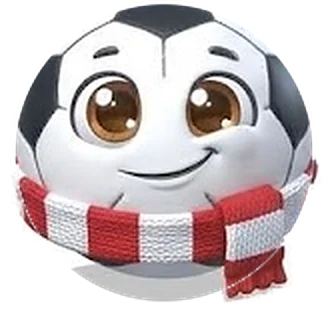
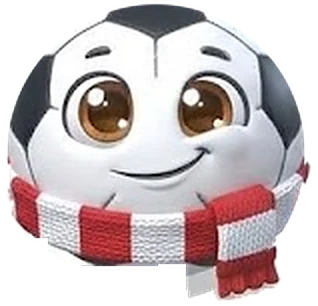
Goli scarf sprite: remove Gemini's ground shadow under the scarf, raise the shadow to match
Claude-Session: https://claude.ai/code/session_01Mxiv5njLw4hiVfBEJRmmtz

diff --git a/frontend/src/components/GoliSprite.js b/frontend/src/components/GoliSprite.js
@@ -21,7 +21,8 @@ import scarfImg from '../assets/goli/scarf.webp';
 // מי שביקש פחות תנועה (still) מקבל אותו בלי קפיצות.
 
 // מיקום הכדור בכל תמונה (מרכז ורדיוס, בפיקסלים) - כדי שהכדור יישב בדיוק
-// באותו מקום בכל הבעה ולא "יקפוץ" במעבר
+// באותו מקום בכל הבעה ולא "יקפוץ" במעבר. ground = איפה הכדור נגמר למטה
+// (ביחס לרדיוס): עם הצעיף הוא "מתיישב" ונגמר מעט מעל, אז הצל עולה איתו
 const SPRITES = {
   idle: { src: idleImg, w: 290, h: 290, cx: 144, cy: 144, r: 146 },
   talk: { src: talkImg, w: 292, h: 290, cx: 145, cy: 144, r: 147 },
@@ -30,7 +31,7 @@ const SPRITES = {
   celebrate: { src: celebrateImg, w: 286, h: 286, cx: 142, cy: 142, r: 144 },
   wow: { src: wowImg, w: 288, h: 286, cx: 143, cy: 142, r: 145 },
   crown: { src: crownImg, w: 302, h: 354, cx: 148, cy: 204, r: 150 },
-  scarf: { src: scarfImg, w: 330, h: 310, cx: 163, cy: 152, r: 155 }
+  scarf: { src: scarfImg, w: 318, h: 306, cx: 155, cy: 152, r: 155, ground: 0.74 }
 };
 
 const TALK_MS = 1600;
@@ -148,7 +149,7 @@ export default function GoliSprite({ mood = 'idle', stepKey, lookX = 0, lookY = 
       <style>{CSS}</style>
       {/* צל על הקרקע */}
       <span style={{
-        position: 'absolute', left: size * 0.22, width: size * 0.56, top: by + D / 2 + H * 0.03, height: size * 0.09, borderRadius: '50%',
+        position: 'absolute', left: size * 0.22, width: size * 0.56, top: by + (D / 2) * (sp.ground || 1) + H * 0.03, height: size * 0.09, borderRadius: '50%',
         background: '#000', opacity: 0.2, animation: mood === 'idle' || mood === 'loading' ? `gs-shadow ${mood === 'loading' ? '.55s' : '2.2s'} ease-in-out infinite` : 'none'
       }} />
       {/* קפיצה קטנה בכל שלב חדש */}
